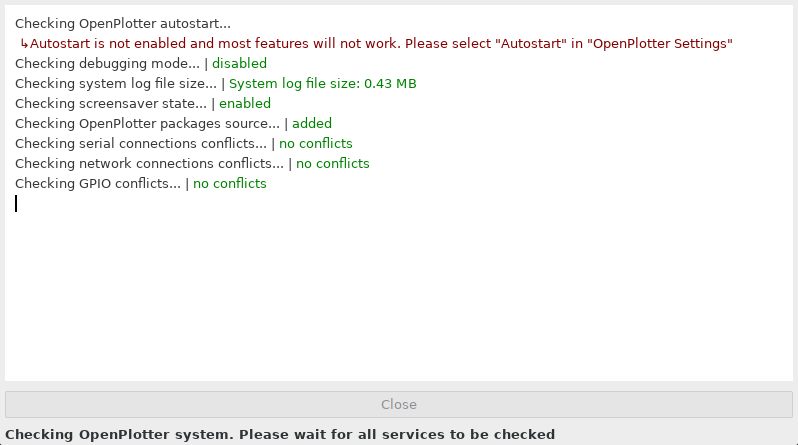
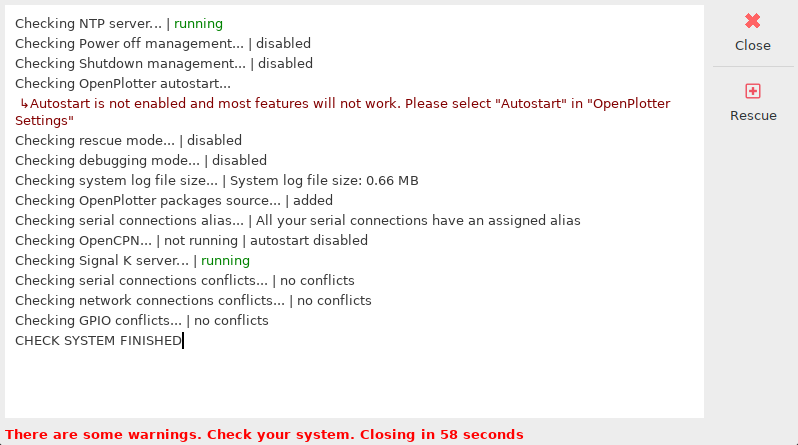
update settings and description

diff --git a/settings/settings_app.rst b/settings/settings_app.rst
@@ -1,6 +1,39 @@
 .. _settings:
 
 .. |opsettings| image:: img/openplotter-settings.png
+.. |appssources| image:: img/sources.png
+.. |appcandidates| image:: img/update.png
+.. |mout| image:: img/output.png
+.. |mhelp| image:: ../img/help.png
+.. |mautostart| image:: img/autostart.png
+.. |mcheck| image:: img/check.png
+.. |GSrescue| image:: img/rescue.png
+.. |opapps| image:: img/openplotter-24.png
+.. |gsettings| image:: img/debian.png
+.. |rsettings| image:: img/rpi.png
+.. |slog| image:: img/log.png
+.. |apprefresh| image:: img/refresh.png
+.. |appinstall| image:: img/install.png
+.. |appuninstall| image:: img/uninstall.png
+.. |appopen| image:: img/open.png
+.. |appchanges| image:: img/changelog.png
+.. |GStranslate| image:: img/crowdin.png
+.. |GSresize| image:: img/resize.png
+.. |GSdelay| image:: img/delay.png
+.. |GSplay| image:: img/play.png
+.. |GSfile| image:: img/file.png
+.. |GStime| image:: img/time.png
+.. |GSkeyboard| image:: img/keyboard.png
+.. |RSscreensaver| image:: img/screen.png
+.. |RSgpio| image:: img/chip.png
+.. |RSshutdown| image:: img/shutdown.png
+.. |RSpoweroff| image:: img/poweroff.png
+.. |RSapply| image:: img/apply.png
+.. |SLbug| image:: img/bug.png
+.. |SLall| image:: img/logsee.png
+.. |SLcat| image:: img/logcategory.png
+.. |SLsearch| image:: img/logsearch.png
+.. |SLdelete| image:: img/logremove.png
 
 |opsettings| OpenPlotter Settings
 #################################
@@ -16,17 +49,9 @@ This is the main OpenPlotter app. You need it to install the rest of the apps. I
 
 .. image:: img/settings1.png
 
-.. |appssources| image:: img/sources.png
-.. |appcandidates| image:: img/update.png
-.. |mout| image:: img/output.png
-
 To install the sources, click |appssources| ``Add sources`` and then click |appcandidates| ``Get Candidates``. You will see the result of each process in the |mout| output tab. After adding the sources you are ready to install the rest of the apps:
 
 .. image:: img/settings2.png
-
-.. |mhelp| image:: ../img/help.png
-.. |mautostart| image:: img/autostart.png
-.. |mcheck| image:: img/check.png
 
 |mhelp| Help
 ************
@@ -45,10 +70,7 @@ By clicking this button, you can run the self-diagnosis at any time. Each OpenPl
 
 .. image:: img/settings4.png
 
-.. |opapps| image:: img/openplotter-24.png
-.. |gsettings| image:: img/debian.png
-.. |rsettings| image:: img/rpi.png
-.. |slog| image:: img/log.png
+This process runs automatically at startup and is also the time when some important internal OpenPlotter processes are started. OpenPlotter is highly configurable and some parameters can produce unexpected effects such as data loops, unstable or even unusable systems. By clicking |GSrescue| ``Rescue`` you can prevent these processes from starting in order to modify the settings and recover the system. 
 
 |opapps| OpenPlotter Apps
 #########################
@@ -60,13 +82,6 @@ OpenPlotter apps versions consist of 3 digits separated by periods (a.b.c), a co
 :c: This value will change when minor updates like fixed bugs or translations have been added.
 :codeName: Name to identify the OpenPlotter version (a).
 :state: **Alpha**: new features need to be added; **Beta**: all features have been added, but need to be tested; **Stable**: all functions should work properly.
-
-
-.. |apprefresh| image:: img/refresh.png
-.. |appinstall| image:: img/install.png
-.. |appuninstall| image:: img/uninstall.png
-.. |appopen| image:: img/open.png
-.. |appchanges| image:: img/changelog.png
 
 |appssources| Add sources
 *************************
@@ -116,17 +131,10 @@ If you have trouble locating and opening the OpenPlotter apps installed on your 
 
 Select any app and click this button to see all changes across versions.
 
-
 |gsettings| General Settings
 ############################
 
 .. image:: img/settings3.png
-
-.. |GStranslate| image:: img/crowdin.png
-.. |GSresize| image:: img/resize.png
-.. |GSdelay| image:: img/delay.png
-.. |GSplay| image:: img/play.png
-.. |GSfile| image:: img/file.png
 
 |GStranslate| Language
 **********************
@@ -137,6 +145,26 @@ You can select any of the available languages and all OpenPlotter apps will be t
 *******************
 
 If you enable this option, all OpenPlotter applications will be maximized the next time you open them.
+
+|GSrescue| Rescue
+*****************
+
+Here you can enable/disable the *Rescue* mode to help recover unstable systems due to some misconfigurations. For example if you set an action to reboot the system using the *OpenPlotter Notifications* app in response to some value of Signal K, it can cause a reboot loop. Using the *Rescue* mode disables all actions temporarily and you will be able to remove that killer setting.
+
+|GStime| NTP server
+*******************
+
+Usually OpenPlotter will not have an internet connection while sailing and cannot set the system time automatically. To solve this, the Signal K server collects the time of the GNSS signal and sets the system time. Enabling the NTP server allows other devices connected to the same network as OpenPlotter to update their system time as well. You need to configure the NTP client of your device to connect to the OpenPlotter NTP server.
+
+|GSkeyboard| Virtual keyboard
+******************************
+
+OpenPlotter includes a virtual keyboard for touch systems or systems that do not have a physical keyboard. You can customize your virtual keyboard by creating a layout that suits your requirements and your language.
+
+.. image:: img/virtualKeyboard.png
+
+.. note::
+	Visit this `link <https://forum.openmarine.net/showthread.php?tid=4070>`_. to know how to create and share a keyboard layout.
 
 |GSdelay| Delay
 ***************
@@ -153,14 +181,6 @@ You can play a sound to notify you when the OpenPlotter startup process is compl
 
 .. image:: img/settings9.png
 
-.. |RSscreensaver| image:: img/screen.png
-.. |RSgpio| image:: img/chip.png
-
-|RSscreensaver| Screensaver
-***************************
-
-The screensaver is enabled by default in Raspberry OS and this is quite annoying and even dangerous when you are sailing. It is not easy to disable this screensaver and it is not well documented, but using this button you will do it with one click.
-
 |RSgpio| GPIO Map
 *****************
 
@@ -168,19 +188,22 @@ Some apps will report which GPIO they are using and you can check it here. Check
 
 .. image:: img/settings10.png
 
+|RSshutdown| Shutdown
+*********************
+
+You can use any GPIO on the Raspberry to set a shutdown botton. Click |RSgpio| ``GPIO`` to choose a GPIO, usually GPIO 21 at pin 40. Select a GPIO ``Transition`` to trigger the shutdown, *high->low* or *low->high*. Select an internal pull resistor, *pull-up* and *pull-down*, or *off* if you use an external pull resistor. Click |RSapply| ``Apply`` to save settings and changes will be applied after the next reboot.
+
+|RSpoweroff| Power off
+**********************
+
+You can use any GPIO on the Raspberry to notify an external circuit that it can safely cut power. Click |RSgpio| ``GPIO`` to choose a GPIO, usually GPIO 26 at pin 37. Select a GPIO ``Transition`` to trigger the power off, *high->low* or *low->high*. Click |RSapply| ``Apply`` to save settings and changes will be applied after the next reboot.
+
 |slog| System log
 #################
 
 .. image:: img/settings11.png
 
 Here are some tools for debugging and troubleshooting your system. When an application malfunctions, it can generate excess messages and eventually create huge log files that consume all free storage space. By setting a maximum log file size, you can detect and resolve potential problems.
-
-
-.. |SLbug| image:: img/bug.png
-.. |SLall| image:: img/logsee.png
-.. |SLcat| image:: img/logcategory.png
-.. |SLsearch| image:: img/logsearch.png
-.. |SLdelete| image:: img/logremove.png
 
 |SLbug| Debugging
 *****************

diff --git a/getting_started/downloading.rst b/getting_started/downloading.rst
@@ -36,7 +36,7 @@ All required apps to fulfill most OpenPlotter marine features.
 :Wifi AP: SSID: none, Password: none, IP: none
 :SSH: Disabled
 :Remote desktop: Disabled
-:Installed apps: Settings - Docs - Signal K installer - OpenCPN installer - AvNav installer - Xygrib - Serial - CAN - Network - Notifications - Dashboards 
+:Installed apps: Settings - Docs - Signal K installer - OpenCPN installer - Xygrib - Dashboards - Serial - CAN - Network
 
 OpenPlotter Headless
 ====================
@@ -56,7 +56,7 @@ Same as *OpenPlotter Starting* but ready to be used remotely without monitor.
 :Wifi AP: SSID: openplotter, Password: 12345678, IP: 10.10.10.1
 :SSH: Enabled
 :Remote desktop: Enabled
-:Installed apps: Settings - Docs - Signal K installer - OpenCPN installer - AvNav installer - Xygrib - Serial - CAN - Network - Notifications - Dashboards 
+:Installed apps: Settings - Docs - Signal K installer - OpenCPN installer - Xygrib - Dashboards - Serial - CAN - Network
 
 OpenPlotter Moitessier HAT
 ==========================
@@ -76,12 +76,12 @@ Same as *OpenPlotter Starting* plus required apps configured to use the Moitessi
 :Wifi AP: SSID: none, Password: none, IP: none
 :SSH: Disabled
 :Remote desktop: Disabled
-:Installed apps: Settings - Docs - Signal K installer - OpenCPN installer - AvNav installer - Xygrib - Serial - CAN - Network - Notifications - Dashboards - Moitessier HAT - I2C - Pypilot
+:Installed apps: Settings - Docs - Signal K installer - OpenCPN installer - Xygrib - Dashboards - Serial - CAN - Network - Moitessier HAT - I2C - Pypilot
 
 OpenPlotter À la Carte
 ======================
 
-Fill in a form with all the available customization options and in a few hours you will receive an image built by a robot from scratch and to your liking that will save you a lot of time. Another advantage over the other editions is that all packages that make up the OS, including Openplotter apps, will be updated to the latest versions.
+Fill in a form with all the available customization options and in a few minutes you will receive an image built by a robot from scratch and to your liking that will save you a lot of time. Another advantage over the other editions is that all packages that make up the OS, including Openplotter apps, will be updated to the latest versions.
 
 :Download: Under construction
 :Image name: Customizable
@@ -105,10 +105,10 @@ Desktop and laptop
 
 You can also install OpenPlotter in any desktop or laptop computer running your favourite Debian derivative distribution. Hovewer, if your computer is not a Raspberry Pi, you will not be able to install some OpenPlotter apps:
 
-:Common: Settings - Docs - Signal K installer - OpenCPN installer - AvNav installer - Xygrib - Serial - CAN - Network - Notifications - Dashboards - IoT - MAIANA AIS Transponder - OpenMarine Box - SDR VHF
-:Only Raspberry: I2C - Pypilot - Moitessier HAT - GPIO
+:Common: Settings - Docs - Signal K installer - OpenCPN installer - AvNav installer - Xygrib - Serial - CAN - Notifications - Dashboards - IoT - MAIANA AIS Transponder - OpenMarine Box - SDR VHF
+:Only Raspberry: Network - I2C - Pypilot - GPIO - Moitessier HAT - MacArthur HAT
 
-OpenPlotter for desktop and laptop is tested in Ubuntu 20.04 LTS. You just need basic knowledge of Linux to install OpenPlotter for desktop and laptop. Download this *OpenPlotter Settings* package: |Latest version of 'openplotter-settings' @ Cloudsmith| and follow the :ref:`Desktop and laptop<getting_started_installing_desktop>` chapter to install OpenPlotter from scratch.
+OpenPlotter for desktop and laptop is tested in Ubuntu 22.04 LTS. You just need basic knowledge of Linux to install OpenPlotter for desktop and laptop. Download this *OpenPlotter Settings* package: |Latest version of 'openplotter-settings' @ Cloudsmith| and follow the :ref:`Desktop and laptop<getting_started_installing_desktop>` chapter to install OpenPlotter from scratch.
 
 .. |Latest version of 'openplotter-settings' @ Cloudsmith| image:: https://api-prd.cloudsmith.io/v1/badges/version/openplotter/openplotter/deb/openplotter-settings/latest/a=all;d=debian%252Fbullseye;t=binary/?render=true&show_latest=true
    :target: https://cloudsmith.io/~openplotter/repos/openplotter/packages/detail/deb/openplotter-settings/latest/a=all;d=debian%252Fbullseye;t=binary/
@@ -117,4 +117,4 @@ OpenPlotter for desktop and laptop is tested in Ubuntu 20.04 LTS. You just need 
 OpenPlotter Expert
 ******************
 
-Pi-gen is the tool used to create the official *Raspberry Pi OS* images. We use a fork of pi-gen to create OpenPlotter images. Use the *openplotter* branch of our repository to create your own OpenPlotter flavor. You need good knowledge of Linux to create your own OpenPlotter distributions. Follow instructions in `README file <https://github.com/openplotter/pi-gen/blob/openplotter/README.md>`_.
+Pi-gen is the tool used to create the official *Raspberry Pi OS* images. We use a fork of pi-gen to create OpenPlotter images. Use the *openplotter32* and *openplotter64* branchs of our repository to create your own OpenPlotter flavor. You need good knowledge of Linux to create your own OpenPlotter distributions. Follow instructions in `README file <https://github.com/openplotter/pi-gen/>`_.

diff --git a/getting_started/installing.rst b/getting_started/installing.rst
@@ -26,7 +26,9 @@ You only need a micro SD card (minimum 8GB, recommended 16GB) and a computer wit
 
 - Remove the SD card from the reader, insert it into the Raspberry Pi and you are done.
 
-After the first boot you can customize and localize your system changing some important settings like password or system language. You can also change these settings later in :menuselection:`Main --> Preferences --> Raspberry Pi configuration`.
+Unless you are using the **OpenPlotter À la Carte** edition, after the first boot you should customize and localize your system changing some important settings like the password or the system language. You can do this in :menuselection:`Main --> Preferences --> Raspberry Pi configuration`.
+
+.. image:: img/configuration.png
 
 .. danger::
 	You MUST change the default password for the user *pi*. Otherwise, anyone will be able to access your system easily.
@@ -83,7 +85,7 @@ First of all you have to install some dependencies. Open a terminal and type:
 .. parsed-literal::
 
 	sudo apt update
-	sudo apt install python3-wxgtk4.0 python3-ujson python3-pyudev vlc
+	sudo apt install python3-wxgtk4.0 python3-ujson python3-pyudev vlc ntp matchbox-keyboard
 
 Now you have to install the *OpenPlotter Settings* app from the .deb file you will found in :ref:`Desktop and laptop<downloading_desktop>` section in *Downloading* chapter
 

diff --git a/index.rst b/index.rst
@@ -25,7 +25,7 @@ Welcome to OpenPlotter's documentation!
 
 .. toctree::
    :maxdepth: 1
-   :caption: Settings - 3.1.0-beta
+   :caption: Settings - 3.4.1-beta
    :name: sec-settings
 
    settings/settings_app
@@ -47,10 +47,10 @@ Welcome to OpenPlotter's documentation!
 
 .. toctree::
    :maxdepth: 1
-   :caption: AvNav Installer - 3.0.3-beta
-   :name: sec-avnav
+   :caption: Dashboards - 3.0.6-beta
+   :name: sec-dashboards
 
-   avnav/avnav_app
+   dashboards/dashboards_app
 
 .. toctree::
    :maxdepth: 1
@@ -79,3 +79,25 @@ Welcome to OpenPlotter's documentation!
    :name: sec-network
 
    network/network_app
+
+.. toctree::
+   :maxdepth: 1
+   :caption: AvNav Installer - 3.0.3-beta
+   :name: sec-avnav
+
+   avnav/avnav_app
+
+.. toctree::
+   :maxdepth: 1
+   :caption: Notifications - 3.0.5-beta
+   :name: sec-notifications
+
+   notifications/notifications_app
+
+.. toctree::
+   :maxdepth: 1
+   :caption: MAIANA AIS transponder - 3.1.3-beta
+   :name: sec-maiana
+
+   maiana/maiana_app
+   

diff --git a/description/how_does_it_work.rst b/description/how_does_it_work.rst
@@ -7,7 +7,7 @@ How does it work?
 
 The center of OpenPlotter is the **Signal K Server**. All the data collected by the boat's sensors in any of the supported formats are converted to Signal K format and stored. Once the server has the data in Signal K format, these can be sent by different ways to any program that supports this open source universal data exchange format or they can be converted again to any of the supported formats.
 
-.. important::
+.. note::
 	The main function of the different apps that make up OpenPlotter is to facilitate the connection of the sensors with the Signal K server and in some cases to directly generate data in Signal K format from the raw sensor data. There is also another group of apps dedicated to processing and displaying the data from the Signal K server. You will learn how to use these apps in successive chapters.
 
 Depending on the initial format of the data, it can follow different routes or be available in different ways:

diff --git a/description/features.rst b/description/features.rst
@@ -17,5 +17,8 @@ Features
 
 :Headless: You can connect OpenPlotter to any HDMI monitor and/or access to OpenPlotter desktop from the cockpit through your mobile devices.
 
-**Under construction...**
+:Dashboards: Customize your instrument panels to visualize data or create charts to see its evolution.
 
+:Hardware:	Dedicated hardware specially designed for OpenPlotter.
+
+**Under construction...**

diff --git a/maiana/maiana_app.rst b/maiana/maiana_app.rst
@@ -1,0 +1,2 @@
+MAIANA AIS transponder
+######################

diff --git a/notifications/notifications_app.rst b/notifications/notifications_app.rst
@@ -1,0 +1,2 @@
+Notifications
+#############

diff --git a/dashboards/dashboards_app.rst b/dashboards/dashboards_app.rst
@@ -1,0 +1,2 @@
+Dashboards
+##########
